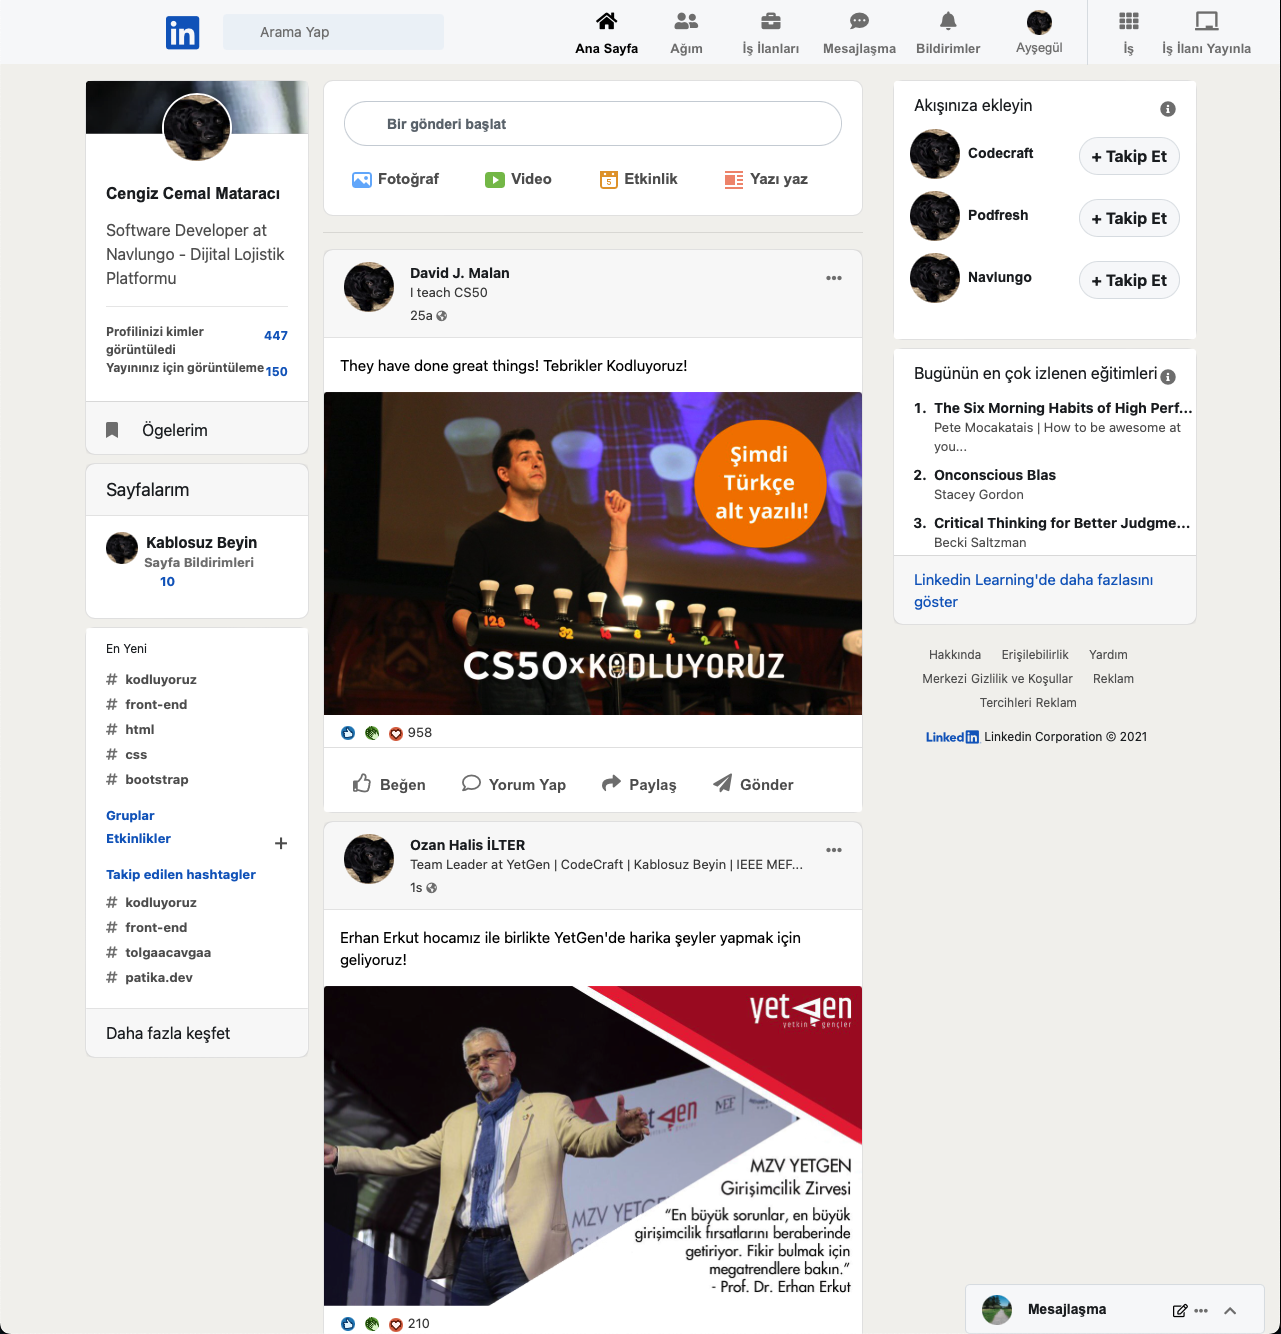
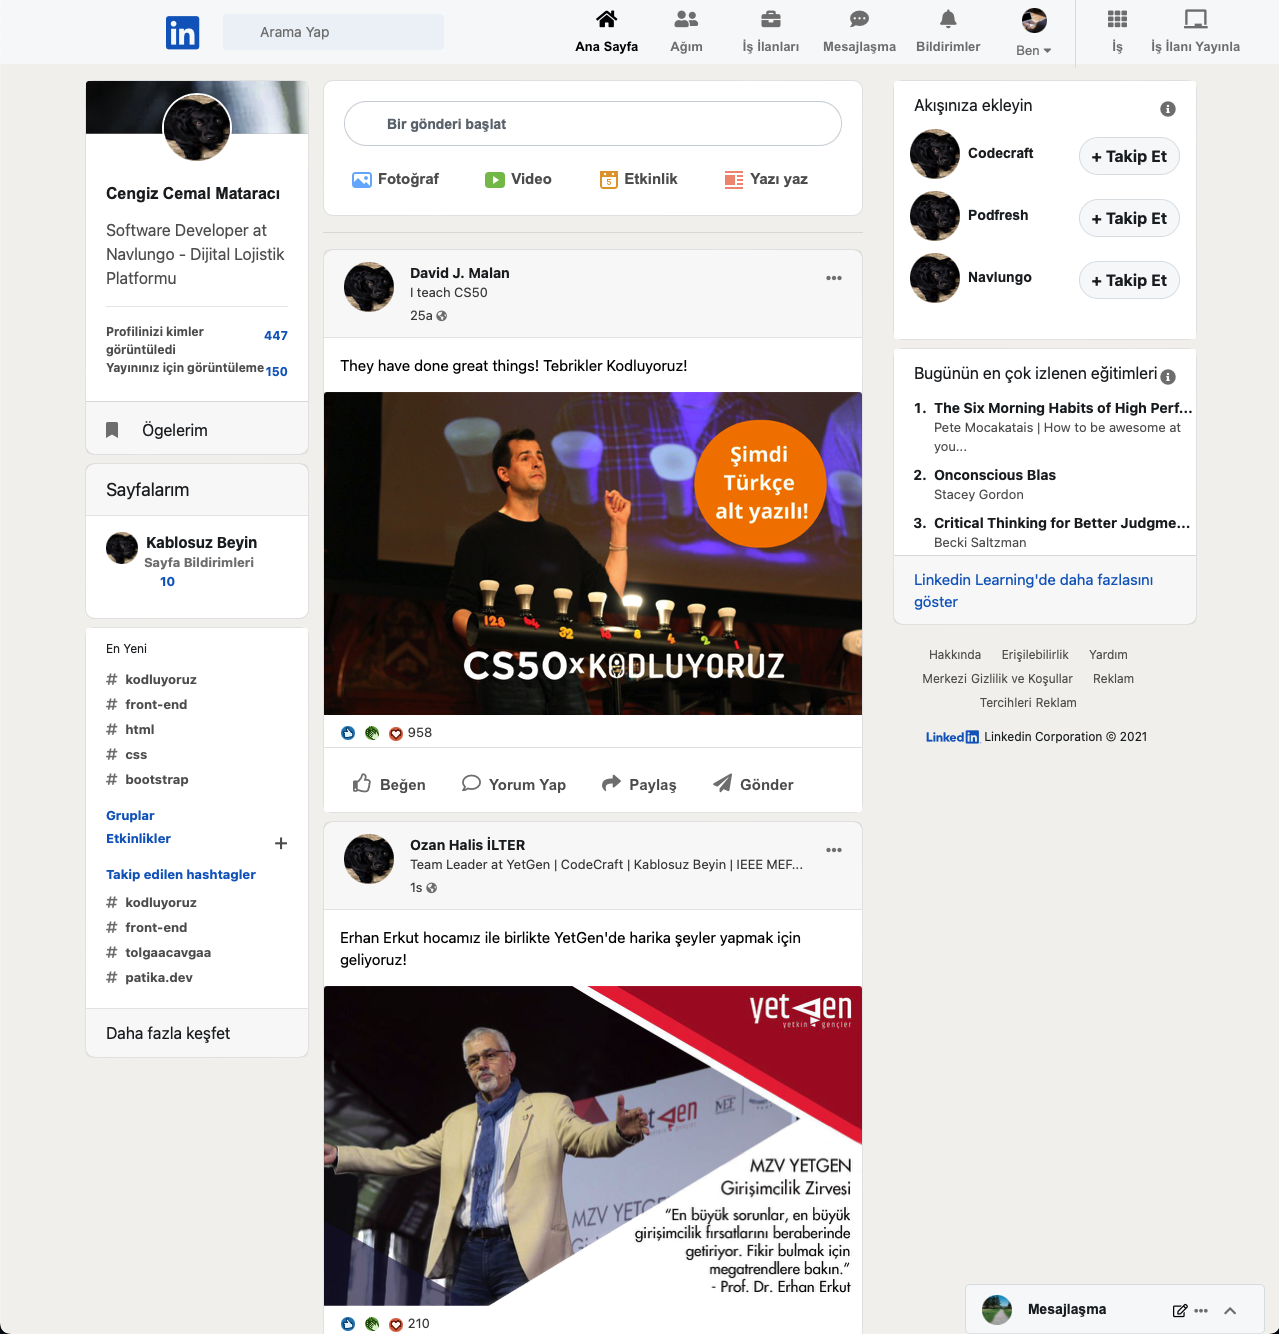
somethings again

diff --git a/index.html b/index.html
@@ -59,13 +59,13 @@
         <li class="nav-item dropdown mt-1 mr-3 ml-3">
           <a class="nav-link" href="#" id="navbarDropdownMenuLink" role="button" data-toggle="dropdown"
             aria-haspopup="true" aria-expanded="false">
-            <img src="https://picsum.photos/id/237/200/300" style="
+            <img src="https://picsum.photos/id/1/200/300" style="
                   width: 25px;
                   height: 25px;
                   border-radius: 50%;
                 " />
             <div class="menutext" style="margin-top: 3px;">
-              Ayşegül
+              Ben <i class="fas fa-caret-down"></i>
             </div>
           </a>
         </li>
